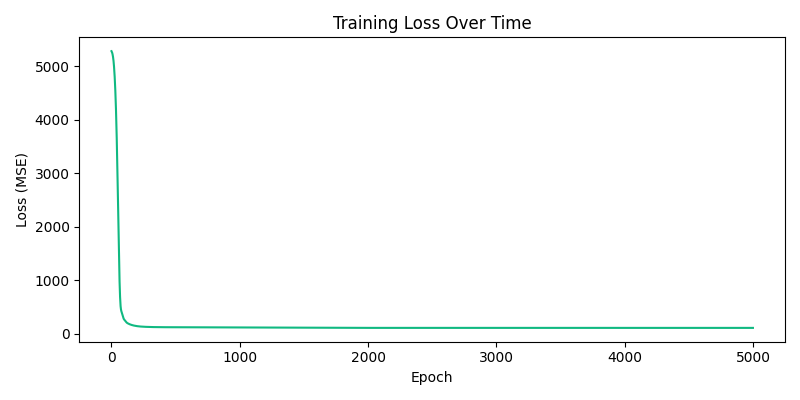
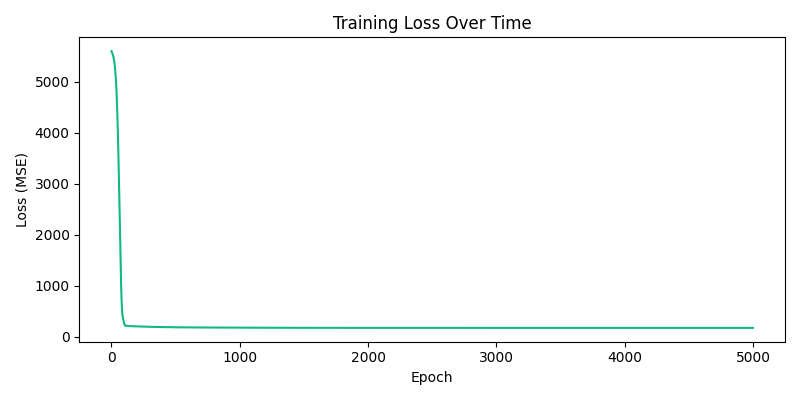
update model and features

diff --git a/extract_features.py b/extract_features.py
@@ -48,23 +48,36 @@ df = pd.read_csv(INPUT_CSV)
 processed_data = []
 
 EXTRACT_PROMPT = """
-You are a strict academic grader.
-Image 1 is the exam question.
-Image 2 is the CORRECT answer provided by the professor.
-Image 3 is the STUDENT's answer.
+You are a strict academic grader evaluating a student's exam answer.
 
-Follow these steps out loud:
-1. List the key concepts or steps from the CORRECT answer.
-2. Check which of those concepts the student covered. Grade by meaning, not exact wording.
-3. Count: how many concepts did the student get right out of total?
-4. Note any wrong or misleading information the student added.
+Image 1: The exam question
+Image 2: The professor's CORRECT answer (the answer key)
+Image 3: The student's answer
 
-Before your final answer, write one summary sentence in this exact format:
-Summary: [how many key concepts were in the correct answer, how many the student covered, and what was missing if anything]
+STEP 1 — Decompose the correct answer into weighted components:
+Assign each component a weight (weights must sum to 100). Distinguish between:
+- Core concepts (30-50 pts each): the essential ideas the question is testing
+- Supporting points (15-25 pts each): important details
+- Minor details (5-10 pts): small additions that show depth
 
-Then write:
-Coverage: [0-100]  (this is a PERCENTAGE, not a count. If student covered 2 out of 3 concepts, Coverage = 67, not 2)
+STEP 2 — Score the student per component (partial credit allowed):
+- 100%: fully correct, clearly demonstrated understanding
+- 50-75%: partially correct or incomplete but on the right track
+- 25%: mentioned the concept but with significant errors or vagueness
+- 0%: missing, wrong, or contradicts the correct answer
 
+STEP 3 — Deduct for errors:
+For each piece of incorrect or misleading information the student wrote (not just omissions):
+Minor error: -5 pts. Major error: -10 to -20 pts.
+
+STEP 4 — Calculate:
+Multiply each component's weight by the student's percentage for that component. Sum them. Apply deductions. Clamp to [0, 100].
+
+Write one sentence:
+Summary: [what the student got right, partially right, and wrong]
+
+Then:
+Coverage: [0-100]
 """
 
 print(f"Processing {len(df)} exams...")
